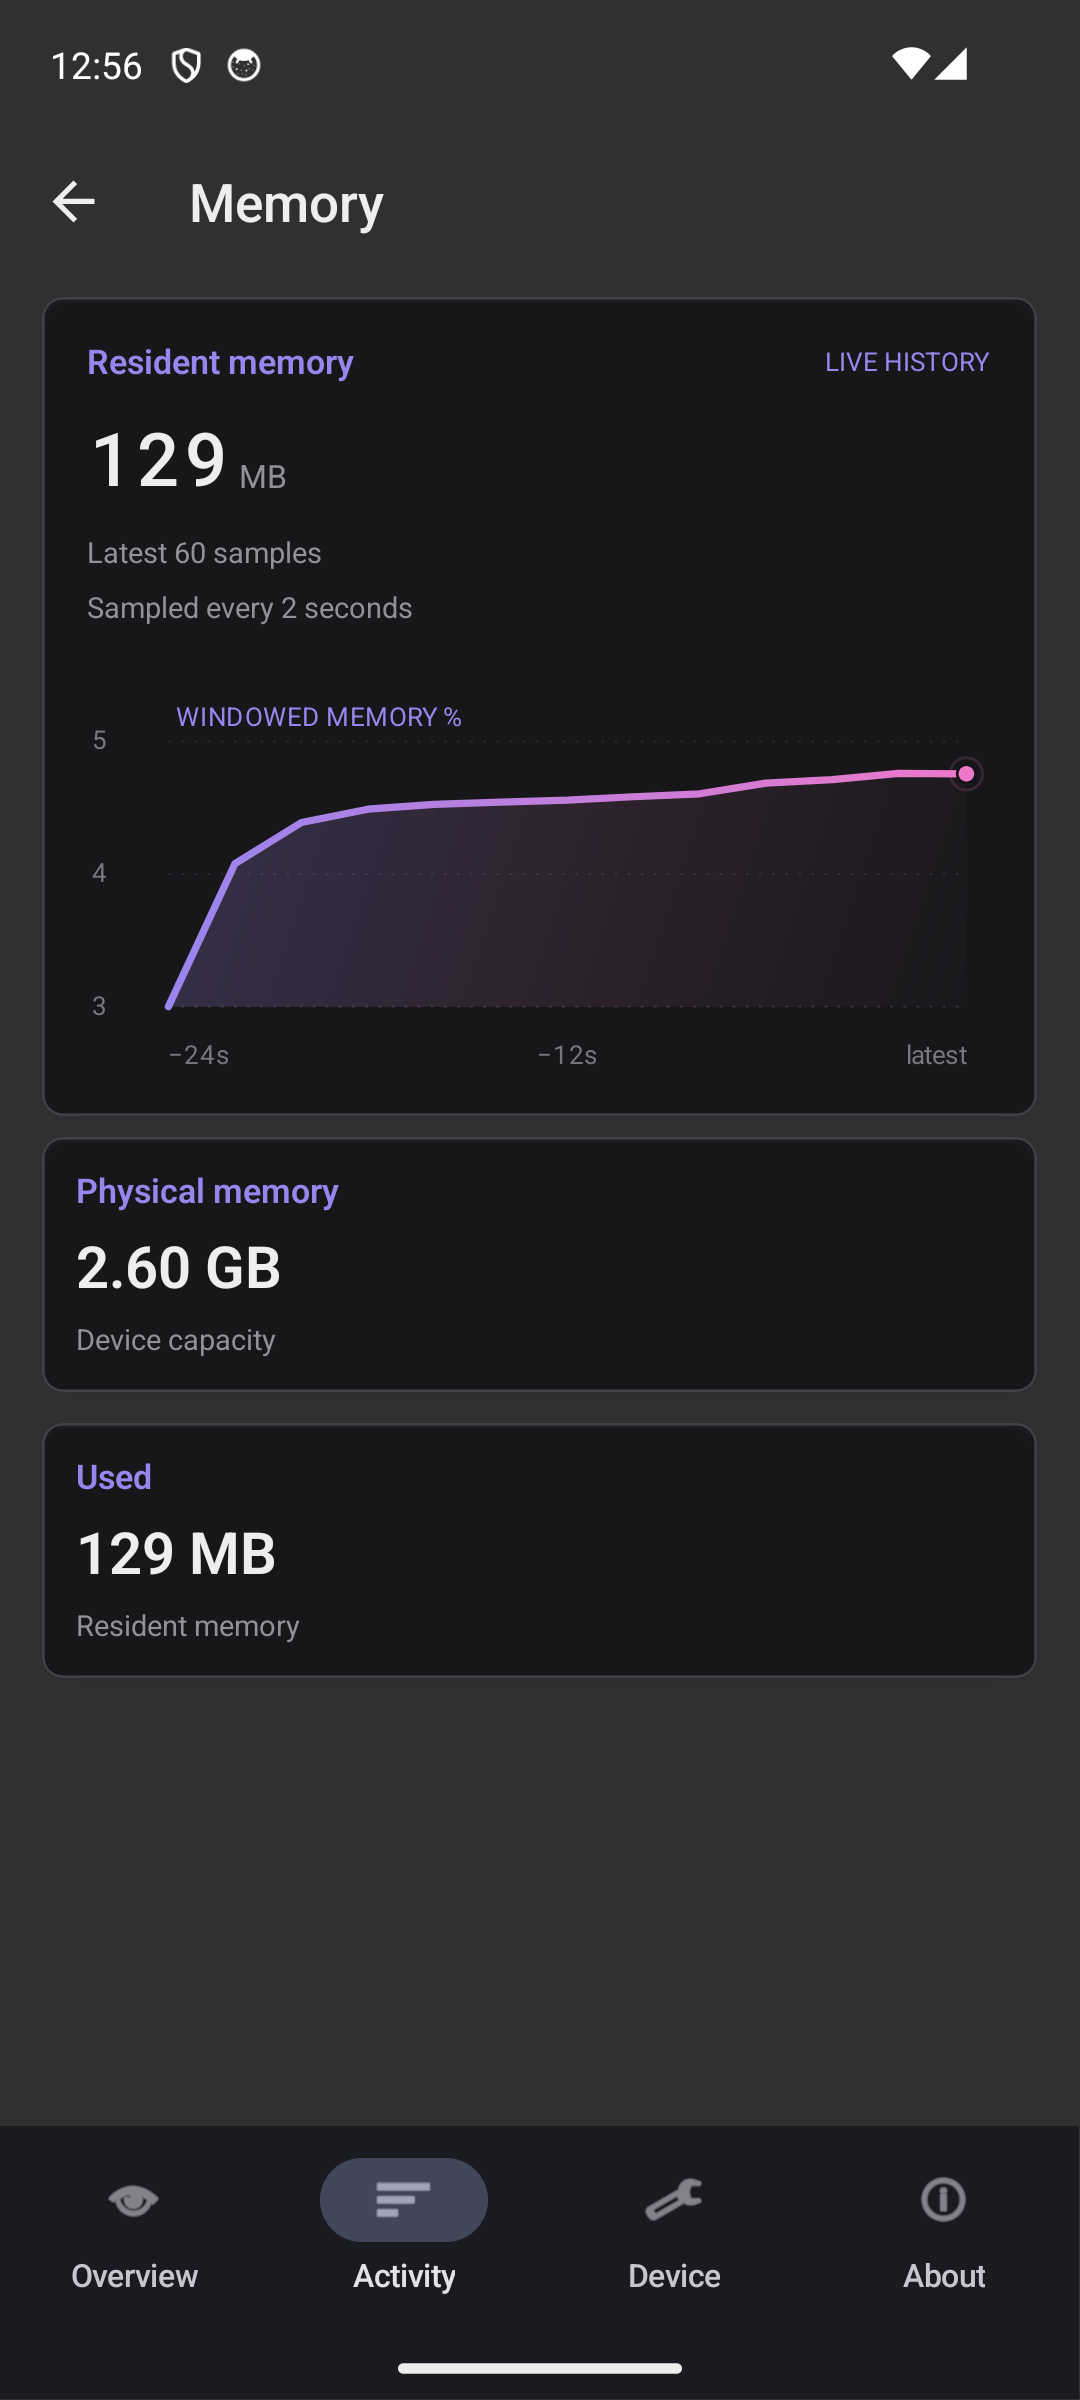
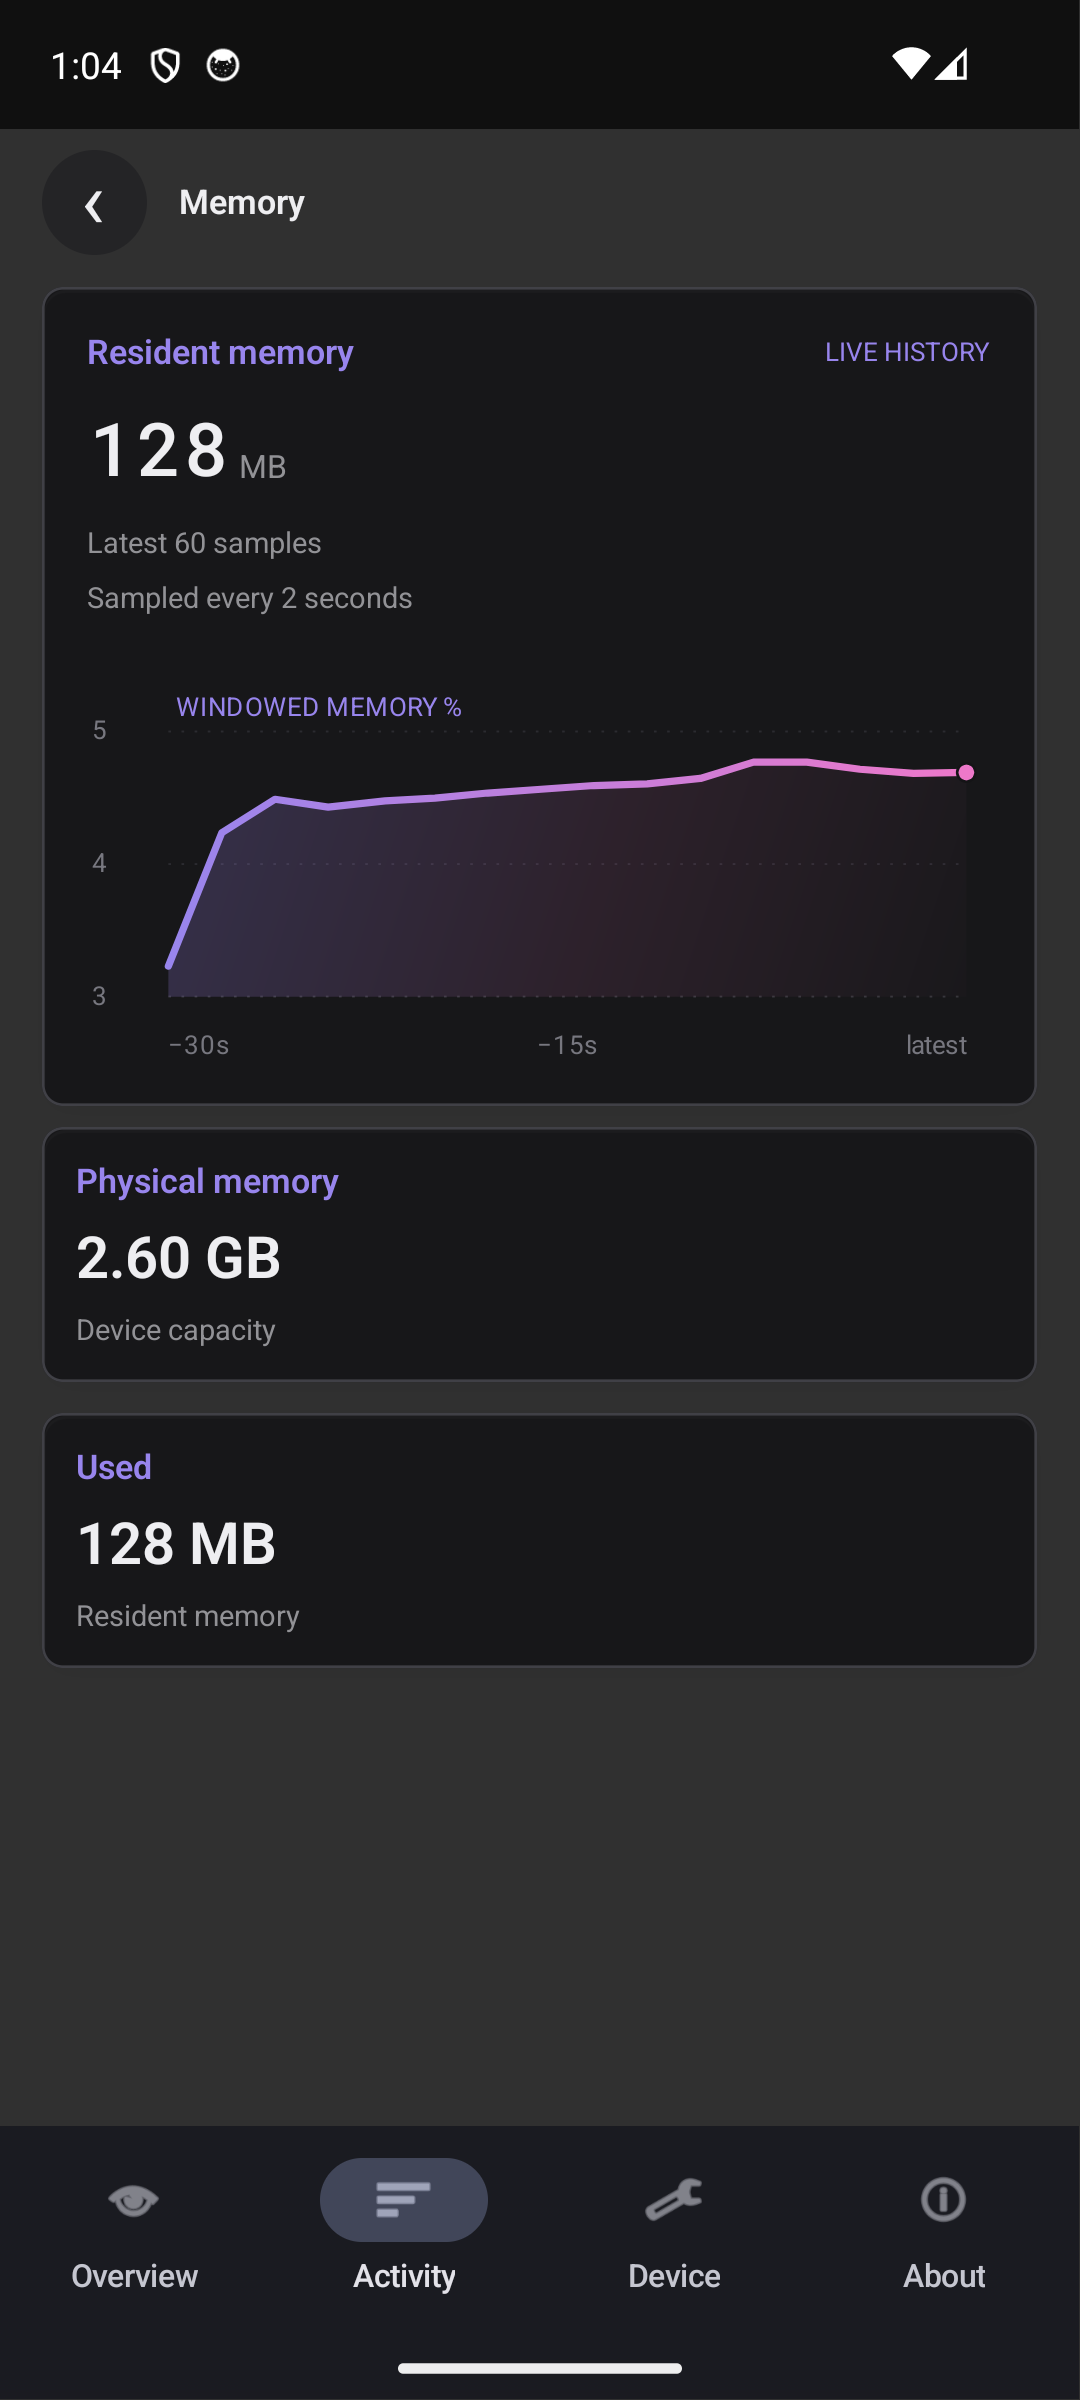
Release v0.1.4 with native headerless mobile navigation
Use the merged NSH swipe-back fix and let mobile content own its top safe area. Keep the inline Back control within scrolling content so no fixed navigation bar obscures charts.

Verified 48 Rust tests, seven install tests, and native iOS headerless navigation with real edge input. Installed release build 5 on the physical iPhone.

diff --git a/src/mobile.rs b/src/mobile.rs
@@ -53,9 +53,8 @@ pub fn shell(
         ]
     };
     nsh_base::safe_area_view()
-        // UINavigationController / the Android toolbar own the top inset;
-        // the system TabBar owns the bottom navigation inset.
-        .edges(vec![nsh_base::Edge::Left, nsh_base::Edge::Right])
+        // Content owns the top safe area; the native TabBar owns the bottom inset.
+        .edges(vec![nsh_base::Edge::Top, nsh_base::Edge::Left, nsh_base::Edge::Right])
         .flex_1()
         .w_full()
         .h_full()
@@ -70,7 +69,7 @@ pub fn shell(
                     nsh_base::nav_page()
                         .key("mobile-root")
                         .title(move || SECTIONS[section.get() as usize])
-                        .header_large_title(false)
+                        .header_visible(false)
                         .header_back_title("")
                         .header_style_with(|s| {
                             s.text_color(rgb(0xeeeef1)).tint_color(rgb(0xeeeef1))
@@ -102,8 +101,8 @@ pub fn shell(
                         let resource = detail.get_untracked();
                         nsh_base::nav_page()
                             .key(format!("mobile-resource-{resource}"))
-                            .title(crate::TABS[resource])
-                            .header_large_title(false)
+                            .title(resource_title(resource))
+                            .header_visible(false)
                             .header_style_with(|s| {
                                 s.text_color(rgb(0xeeeef1)).tint_color(rgb(0xeeeef1))
                             })
@@ -116,6 +115,7 @@ pub fn shell(
                                         .pt_2()
                                         .pb_5()
                                         .gap_3()
+                                        .child(detail_back(resource, detail))
                                         .child(live_views::detail(data, resource, paused)),
                                 ),
                             )
@@ -139,6 +139,23 @@ pub fn shell(
                     }
                 }),
         )
+}
+
+fn resource_title(resource: usize) -> &'static str {
+    if resource == 3 { "Storage" } else { crate::TABS[resource] }
+}
+
+// This row belongs to the scroll content, leaving every chart free to reach the
+// status safe area. The native stack still owns screen lifecycle and system back.
+fn detail_back(resource: usize, detail: Signal<usize>) -> impl IntoElement {
+    view().h(px(40.)).flex_row().items_center().gap_3()
+        .child(view().w(px(40.)).h(px(40.)).rounded(px(20.))
+            .bg(rgb(0x242426)).items_center().justify_center()
+            .role(AccessibilityRole::Button).label("Back")
+            .test_id("mobile-detail-back")
+            .on_press(move || detail.set(0))
+            .child(text("‹").text_size(px(30.)).text_color(rgb(0xeeeef1))))
+        .child(title(resource_title(resource), 0xeeeef1))
 }
 
 pub fn scope_note() -> impl IntoElement {

diff --git a/README.md b/README.md
@@ -20,7 +20,7 @@ curl -sSL https://raw.githubusercontent.com/huacnlee/sysmon/main/install.sh | sh
 
 The installer supports macOS and Linux, downloads the matching architecture archive, verifies `SHA256SUMS`, and installs `sysmon` into `~/.local/bin`. Add that directory to `PATH`, then run `sysmon`. On macOS it also adds `~/Applications/sysmon.app`; on Linux it installs a desktop launcher and icon. No Rust or NSH installation is required. Linux requires GTK 4 system libraries; macOS requires macOS 14 or newer. macOS bundles are ad-hoc signed, not notarized.
 
-Run the same command to upgrade. To pin a release, download the script and run `sh install.sh v0.1.3`. Optional environment variables: `SYSMON_VERSION`, `SYSMON_INSTALL_DIR`, `SYSMON_BIN_DIR`, and `SYSMON_APPS_DIR`. Windows and mobile builds use the platform-specific commands below; this shell installer covers macOS and Linux only.
+Run the same command to upgrade. To pin a release, download the script and run `sh install.sh v0.1.4`. Optional environment variables: `SYSMON_VERSION`, `SYSMON_INSTALL_DIR`, `SYSMON_BIN_DIR`, and `SYSMON_APPS_DIR`. Windows and mobile builds use the platform-specific commands below; this shell installer covers macOS and Linux only.
 
 Release archives must exist for your OS and CPU architecture. The release workflow builds native packages on `macos-15` and `ubuntu-24.04`; manual workflow runs produce downloadable CI artifacts without publishing a release. Existing source-only releases cannot be installed with this command until binary assets and checksums have been attached.
 
@@ -28,7 +28,7 @@ To build an archive locally (Python 3.11+, Rust and platform SDK required):
 
 ```sh
 python3 -m unittest discover -s tests -p 'test_*.py' -v
-python3 scripts/build-release.py --version 0.1.3
+python3 scripts/build-release.py --version 0.1.4
 ```
 
 Archives appear in `.nsh/dist`. Pushing a matching version tag builds both platforms, runs installer and Rust tests, and publishes archives with `SHA256SUMS` to GitHub Releases. The requested version must match both `Cargo.toml` and `nsh.json`.
@@ -38,7 +38,7 @@ Archives appear in `.nsh/dist`. Pushing a matching version tag builds both platf
 Install Rust stable and the pinned NSH main CLI, plus the platform SDKs described in [PLATFORMS.md](PLATFORMS.md).
 
 ```sh
-cargo install --git https://github.com/longbridge/nsh --rev 4e2d52ab5597134d445b2ede9169a68531b4296c --locked nsh-cli
+cargo install --git https://github.com/longbridge/nsh --rev 6e6c45dd0d3be288015a2c78a998c9806b4c1c89 --locked nsh-cli
 cargo run                         # native desktop
 nsh run --target macos
 nsh run --target windows
